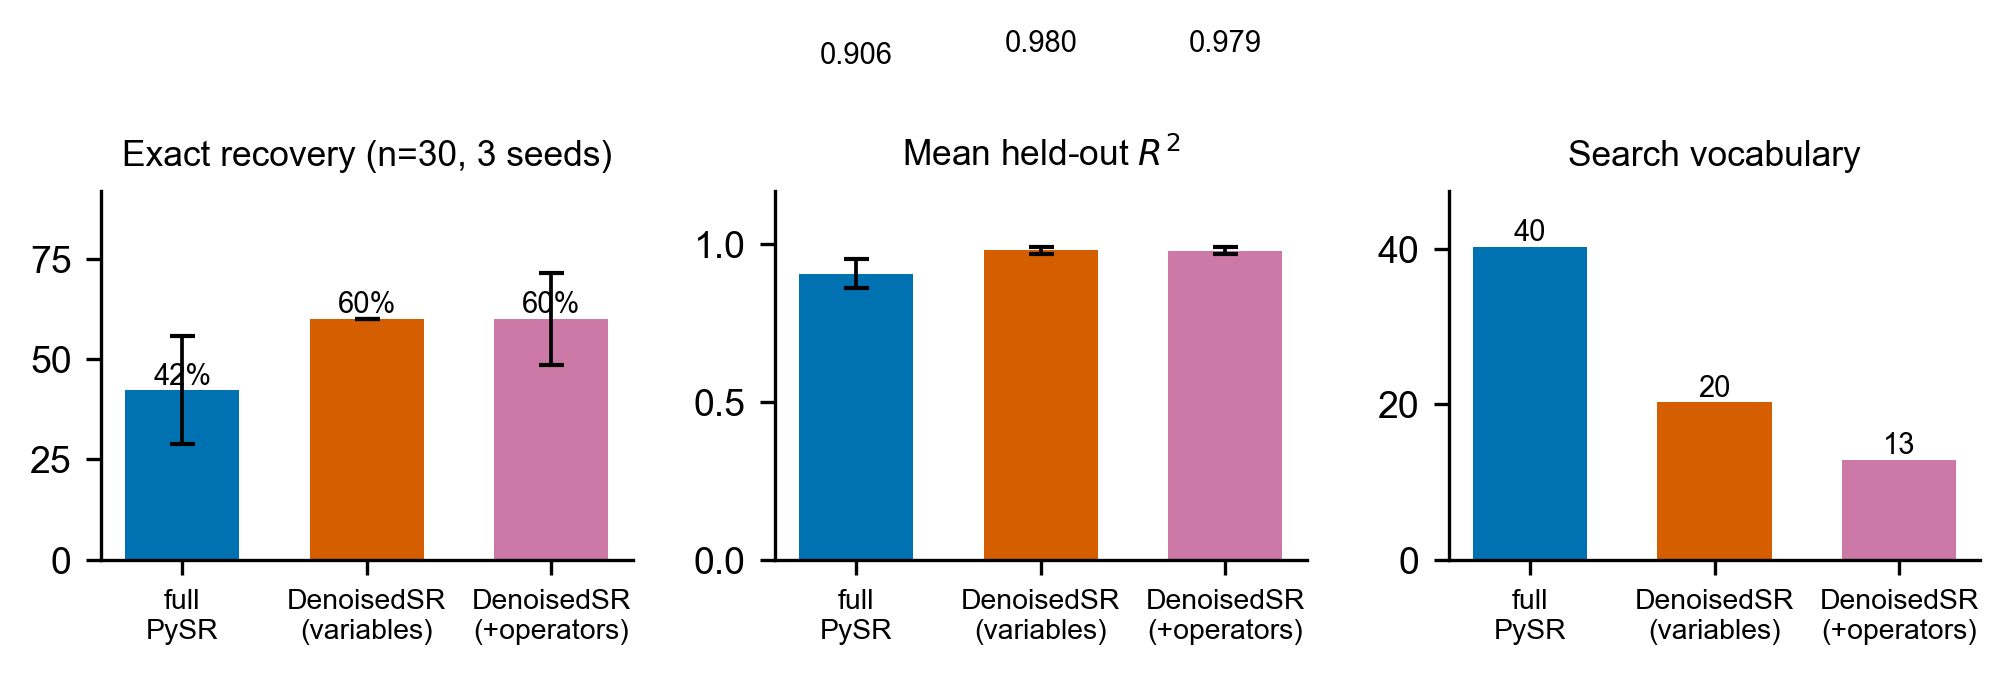
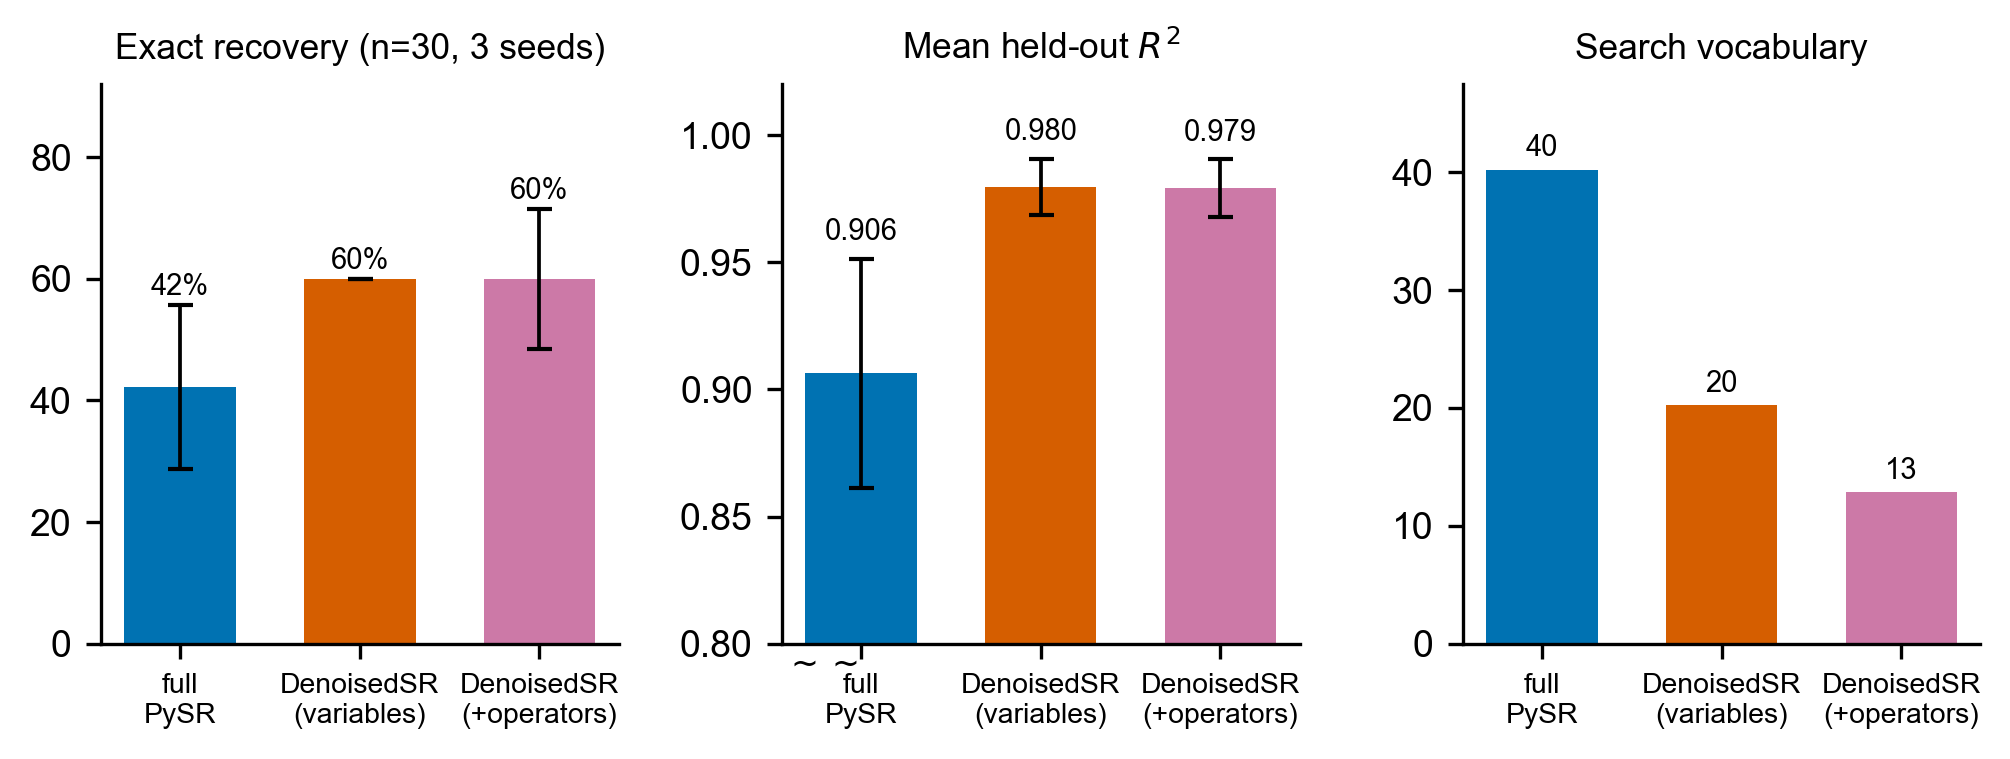
Fig 3: R^2 panel y-axis truncated to [0.80, 1.02] so the 0.906 vs 0.980 gap is visible (was [0, 1.02] where all three bars look identical near the top). Marked with a sim-sim zigzag at the bottom to flag the broken axis.

diff --git a/paper/code/make_figures.py b/paper/code/make_figures.py
@@ -428,20 +428,29 @@ def fig_recovery_seedband():
     labs = ['full\nPySR', 'DenoisedSR\n(variables)', 'DenoisedSR\n(+operators)']
     cols = [FULL, OURS, ACC]
     fig, axs = plt.subplots(1, 3, figsize=(6.8, 2.6))
-    panels = [(axs[0], ex_means, ex_stds, f'Exact recovery (n={n}, 3 seeds)', '{:.0f}%', 92, True),
-              (axs[1], r2_means, r2_stds, 'Mean held-out $R^2$',              '{:.3f}', None, True),
-              (axs[2], vocab,    [0]*3,  'Search vocabulary',                 '{:.0f}', None, False)]
-    for ax, vals, errs, ttl, fmt, ymax, show_err in panels:
+    # Each panel: (ax, vals, errs, title, fmt, ylim, yticks, show_err, broken_axis)
+    panels = [(axs[0], ex_means, ex_stds, f'Exact recovery (n={n}, 3 seeds)', '{:.0f}%', (0, 92), None, True, False),
+              (axs[1], r2_means, r2_stds, 'Mean held-out $R^2$',              '{:.3f}', (0.80, 1.02), [0.80, 0.85, 0.90, 0.95, 1.00], True, True),
+              (axs[2], vocab,    [0]*3,  'Search vocabulary',                 '{:.0f}', None, None, False, False)]
+    for ax, vals, errs, ttl, fmt, ylim, yticks, show_err, broken in panels:
         bars = ax.bar(range(3), vals, color=cols, width=0.62,
                       yerr=errs if show_err else None,
                       error_kw=dict(ecolor='k', lw=0.9, capsize=3))
         ax.set_title(ttl, fontsize=8.5); ax.set_xticks(range(3))
         ax.set_xticklabels(labs, fontsize=6.8)
         for bi, v, e in zip(bars, vals, errs):
-            yoff = (v + e + 0.6) if (show_err and ymax is None) else v
-            ax.text(bi.get_x()+bi.get_width()/2, yoff, fmt.format(v), ha='center', va='bottom', fontsize=7)
-        ax.margins(y=0.18)
-        if ymax: ax.set_ylim(0, ymax)
+            ax.text(bi.get_x()+bi.get_width()/2, v + e + (0.005 if broken else 0.6),
+                    fmt.format(v), ha='center', va='bottom', fontsize=7)
+        if ylim is not None:
+            ax.set_ylim(*ylim)
+        else:
+            ax.margins(y=0.18)
+        if yticks is not None:
+            ax.set_yticks(yticks)
+        if broken:
+            # signal the truncated y-axis with a small zigzag near the bottom
+            ax.text(-0.02, ylim[0]-0.002, '$\\sim\\sim$', transform=ax.transData,
+                    ha='right', va='top', fontsize=8, color='k')
     fig.tight_layout(w_pad=1.4)
     save(fig, 'fig3_recovery')
 